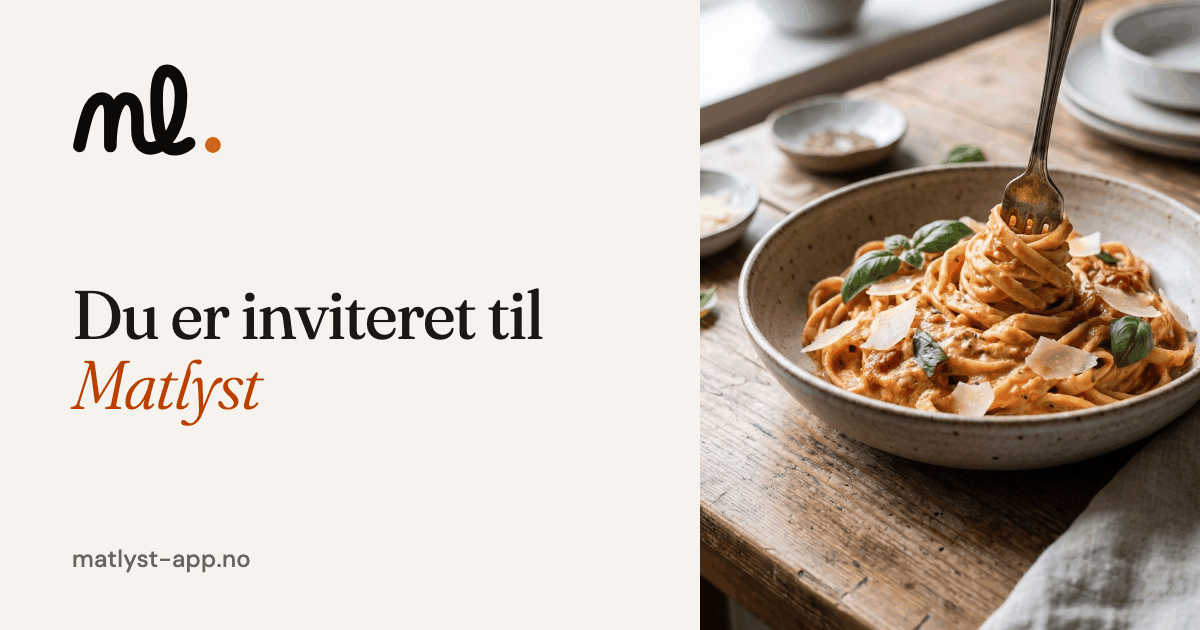
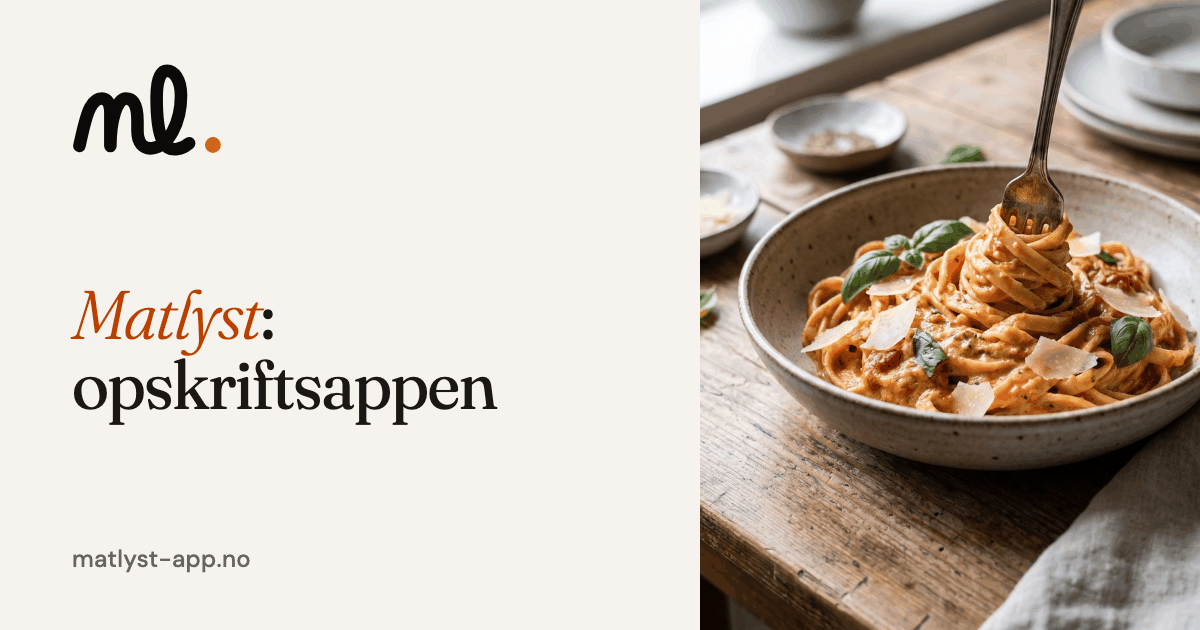
feat(vervekort): nøytral tittel i sv og da
CEO 2026-11-14: kortet i SE og DK skal beskrive appen, ikke invitere.
sv «Matlyst: receptappen», da «Matlyst: opskriftsappen» (appens egne ord,
tekstMerkelinje i lib/sprak/{sv,da}/epost.ts). Beskrivelsen har Matlyst som
subjekt så den ikke gjentar tittelen, og alt-teksten følger tittelen. Gjelder
til Henriette har lest. nb og en beholder «Du er invitert …». Bonusteksten er
ikke rørt.

Testene låser tittelen per språk i OG, <title> og h1, og at sv/da ikke har
invitasjonsord i kortfeltene. OG-bildene for sv og da er rendret på nytt.

Claude-Session: https://claude.ai/code/session_013cPYx7XmWYVxoPmWcSpR5M

Changed region(s): [[0.0617, 0.4524, 0.4625, 0.6937]]

diff --git a/da/v/index.html b/da/v/index.html
@@ -4,8 +4,8 @@
   <meta charset="UTF-8">
   <meta name="viewport" content="width=device-width, initial-scale=1.0">
   <meta http-equiv="Content-Security-Policy" content="default-src 'none'; script-src 'self'; style-src 'self'; img-src 'self'; font-src 'self'; base-uri 'none'; form-action 'none'">
-  <title>Du er inviteret til Matlyst</title>
-  <meta name="description" content="Opskriftsappen, der gemmer opskrifter fra nettet, Instagram og TikTok. Linket åbner App Store eller Google Play.">
+  <title>Matlyst: opskriftsappen</title>
+  <meta name="description" content="Matlyst gemmer opskrifter fra nettet, Instagram og TikTok. Linket åbner App Store eller Google Play.">
   <!-- Vervekortet skal aldri indekseres. Ikke Disallow i robots.txt: da henter
        ikke forhåndsviserne (Twitterbot, facebookexternalhit) kortet. -->
   <meta name="robots" content="noindex">
@@ -15,18 +15,18 @@
   <meta property="og:site_name" content="Matlyst">
   <meta property="og:locale" content="da_DK">
   <meta property="og:url" content="https://matlyst-app.no/da/v/">
-  <meta property="og:title" content="Du er inviteret til Matlyst">
-  <meta property="og:description" content="Opskriftsappen, der gemmer opskrifter fra nettet, Instagram og TikTok. Linket åbner App Store eller Google Play.">
+  <meta property="og:title" content="Matlyst: opskriftsappen">
+  <meta property="og:description" content="Matlyst gemmer opskrifter fra nettet, Instagram og TikTok. Linket åbner App Store eller Google Play.">
   <meta property="og:image" content="https://matlyst-app.no/images/v/vervekort-da.png">
   <meta property="og:image:type" content="image/png">
   <meta property="og:image:width" content="1200">
   <meta property="og:image:height" content="630">
-  <meta property="og:image:alt" content="Matlysts logo og teksten »Du er inviteret til Matlyst« ved siden af en tallerken pasta i tomatsauce med basilikum.">
+  <meta property="og:image:alt" content="Matlysts logo og teksten »Matlyst: opskriftsappen« ved siden af en tallerken pasta i tomatsauce med basilikum.">
   <meta name="twitter:card" content="summary_large_image">
-  <meta name="twitter:title" content="Du er inviteret til Matlyst">
-  <meta name="twitter:description" content="Opskriftsappen, der gemmer opskrifter fra nettet, Instagram og TikTok. Linket åbner App Store eller Google Play.">
+  <meta name="twitter:title" content="Matlyst: opskriftsappen">
+  <meta name="twitter:description" content="Matlyst gemmer opskrifter fra nettet, Instagram og TikTok. Linket åbner App Store eller Google Play.">
   <meta name="twitter:image" content="https://matlyst-app.no/images/v/vervekort-da.png">
-  <meta name="twitter:image:alt" content="Matlysts logo og teksten »Du er inviteret til Matlyst« ved siden af en tallerken pasta i tomatsauce med basilikum.">
+  <meta name="twitter:image:alt" content="Matlysts logo og teksten »Matlyst: opskriftsappen« ved siden af en tallerken pasta i tomatsauce med basilikum.">
   <link rel="icon" type="image/png" href="/images/icon.png">
   <link rel="stylesheet" href="/avmeld.css">
   <link rel="stylesheet" href="/v/vervekort.css">
@@ -45,7 +45,7 @@
   </nav>
 
   <main class="avmeld-doc vervekort">
-    <h1 class="avmeld-title">Du er inviteret til Matlyst</h1>
+    <h1 class="avmeld-title">Matlyst: opskriftsappen</h1>
     <p class="avmeld-intro">Med Matlyst gemmer du opskrifter fra nettet, Instagram og TikTok og bruger dem til madplanen og indkøbslisten.</p>
 
     <section class="avmeld-kort vk-kodekort" id="medKode" hidden>

diff --git a/sv/v/index.html b/sv/v/index.html
@@ -4,8 +4,8 @@
   <meta charset="UTF-8">
   <meta name="viewport" content="width=device-width, initial-scale=1.0">
   <meta http-equiv="Content-Security-Policy" content="default-src 'none'; script-src 'self'; style-src 'self'; img-src 'self'; font-src 'self'; base-uri 'none'; form-action 'none'">
-  <title>Du är inbjuden till Matlyst</title>
-  <meta name="description" content="Receptappen som sparar recept från webben, Instagram och TikTok. Länken öppnar App Store eller Google Play.">
+  <title>Matlyst: receptappen</title>
+  <meta name="description" content="Matlyst sparar recept från webben, Instagram och TikTok. Länken öppnar App Store eller Google Play.">
   <!-- Vervekortet skal aldri indekseres. Ikke Disallow i robots.txt: da henter
        ikke forhåndsviserne (Twitterbot, facebookexternalhit) kortet. -->
   <meta name="robots" content="noindex">
@@ -15,18 +15,18 @@
   <meta property="og:site_name" content="Matlyst">
   <meta property="og:locale" content="sv_SE">
   <meta property="og:url" content="https://matlyst-app.no/sv/v/">
-  <meta property="og:title" content="Du är inbjuden till Matlyst">
-  <meta property="og:description" content="Receptappen som sparar recept från webben, Instagram och TikTok. Länken öppnar App Store eller Google Play.">
+  <meta property="og:title" content="Matlyst: receptappen">
+  <meta property="og:description" content="Matlyst sparar recept från webben, Instagram och TikTok. Länken öppnar App Store eller Google Play.">
   <meta property="og:image" content="https://matlyst-app.no/images/v/vervekort-sv.png">
   <meta property="og:image:type" content="image/png">
   <meta property="og:image:width" content="1200">
   <meta property="og:image:height" content="630">
-  <meta property="og:image:alt" content="Matlysts logotyp och texten ”Du är inbjuden till Matlyst” bredvid en tallrik pasta i tomatsås med basilika.">
+  <meta property="og:image:alt" content="Matlysts logotyp och texten ”Matlyst: receptappen” bredvid en tallrik pasta i tomatsås med basilika.">
   <meta name="twitter:card" content="summary_large_image">
-  <meta name="twitter:title" content="Du är inbjuden till Matlyst">
-  <meta name="twitter:description" content="Receptappen som sparar recept från webben, Instagram och TikTok. Länken öppnar App Store eller Google Play.">
+  <meta name="twitter:title" content="Matlyst: receptappen">
+  <meta name="twitter:description" content="Matlyst sparar recept från webben, Instagram och TikTok. Länken öppnar App Store eller Google Play.">
   <meta name="twitter:image" content="https://matlyst-app.no/images/v/vervekort-sv.png">
-  <meta name="twitter:image:alt" content="Matlysts logotyp och texten ”Du är inbjuden till Matlyst” bredvid en tallrik pasta i tomatsås med basilika.">
+  <meta name="twitter:image:alt" content="Matlysts logotyp och texten ”Matlyst: receptappen” bredvid en tallrik pasta i tomatsås med basilika.">
   <link rel="icon" type="image/png" href="/images/icon.png">
   <link rel="stylesheet" href="/avmeld.css">
   <link rel="stylesheet" href="/v/vervekort.css">
@@ -45,7 +45,7 @@
   </nav>
 
   <main class="avmeld-doc vervekort">
-    <h1 class="avmeld-title">Du är inbjuden till Matlyst</h1>
+    <h1 class="avmeld-title">Matlyst: receptappen</h1>
     <p class="avmeld-intro">Med Matlyst sparar du recept från webben, Instagram och TikTok och använder dem i veckomenyn och inköpslistan.</p>
 
     <section class="avmeld-kort vk-kodekort" id="medKode" hidden>

diff --git a/docs/sprak/2026-11-14-vervekort.md b/docs/sprak/2026-11-14-vervekort.md
@@ -17,9 +17,9 @@ Mottakeren har fått en melding fra en venn med lenke og kode. Meldingsappen vis
 
 | nøkkel | nb | sv | da | en |
 |---|---|---|---|---|
-| tittel (kort og side) | Du er invitert til Matlyst | Du är inbjuden till Matlyst | Du er inviteret til Matlyst | You’re invited to try Matlyst |
-| beskrivelse (kort) | Oppskriftsappen som lagrer oppskrifter fra nettet, Instagram og TikTok. Lenken åpner App Store eller Google Play. | Receptappen som sparar recept från webben, Instagram och TikTok. Länken öppnar App Store eller Google Play. | Opskriftsappen, der gemmer opskrifter fra nettet, Instagram og TikTok. Linket åbner App Store eller Google Play. | The recipe app that saves recipes from websites, Instagram, and TikTok. This link opens the App Store or Google Play. |
-| bildeAlt | Matlyst-logoen og teksten «Du er invitert til Matlyst» ved siden av en tallerken pasta i tomatsaus med basilikum. | Matlysts logotyp och texten ”Du är inbjuden till Matlyst” bredvid en tallrik pasta i tomatsås med basilika. | Matlysts logo og teksten »Du er inviteret til Matlyst« ved siden af en tallerken pasta i tomatsauce med basilikum. | The Matlyst logo and the words “You’re invited to try Matlyst” next to a bowl of pasta in tomato sauce with basil. |
+| tittel (kort og side) | Du er invitert til Matlyst | Matlyst: receptappen | Matlyst: opskriftsappen | You’re invited to try Matlyst |
+| beskrivelse (kort) | Oppskriftsappen som lagrer oppskrifter fra nettet, Instagram og TikTok. Lenken åpner App Store eller Google Play. | Matlyst sparar recept från webben, Instagram och TikTok. Länken öppnar App Store eller Google Play. | Matlyst gemmer opskrifter fra nettet, Instagram og TikTok. Linket åbner App Store eller Google Play. | The recipe app that saves recipes from websites, Instagram, and TikTok. This link opens the App Store or Google Play. |
+| bildeAlt | Matlyst-logoen og teksten «Du er invitert til Matlyst» ved siden av en tallerken pasta i tomatsaus med basilikum. | Matlysts logotyp och texten ”Matlyst: receptappen” bredvid en tallrik pasta i tomatsås med basilika. | Matlysts logo og teksten »Matlyst: opskriftsappen« ved siden af en tallerken pasta i tomatsauce med basilikum. | The Matlyst logo and the words “You’re invited to try Matlyst” next to a bowl of pasta in tomato sauce with basil. |
 | intro | Med Matlyst lagrer du oppskrifter fra nettet, Instagram og TikTok, og bruker dem til ukemeny og handleliste. | Med Matlyst sparar du recept från webben, Instagram och TikTok och använder dem i veckomenyn och inköpslistan. | Med Matlyst gemmer du opskrifter fra nettet, Instagram og TikTok og bruger dem til madplanen og indkøbslisten. | Matlyst saves recipes from websites, Instagram, and TikTok so you can plan your meals and build your grocery list. |
 | stegTittel | Slik kommer du i gang | Så kommer du igång | Sådan kommer du i gang | How to get started |
 | steg1 | Last ned Matlyst fra App Store eller Google Play. | Hämta Matlyst i App Store eller Google Play. | Hent Matlyst i App Store eller Google Play. | Get Matlyst from the App Store or Google Play. |
@@ -30,6 +30,12 @@ Mottakeren har fått en melding fra en venn med lenke og kode. Meldingsappen vis
 | utenKode | Fikk du en vervekode i meldingen? Skriv den inn når du lager en konto med e-post. | Fick du en värvningskod i meddelandet? Skriv in den när du skapar ett konto med e-post. | Fik du en henvisningskode i beskeden? Skriv den, når du opretter en konto med e-mail. | Got a referral code in the message? Enter it when you sign up with email. |
 | butikker (aria) | Last ned Matlyst | Hämta Matlyst | Hent Matlyst | Get Matlyst |
 | lesMer | Les mer om Matlyst | Läs mer om Matlyst | Læs mere om Matlyst | Learn more about Matlyst |
+
+## Endring 2026-11-14 (CEO): nøytral tittel i sv og da
+
+Meningen er «Matlyst: oppskriftsappen»: kortet sier hva lenka er, ikke at noen inviterer. sv «Matlyst: receptappen» og da «Matlyst: opskriftsappen» bruker appens egne ord (`tekstMerkelinje` i `lib/sprak/sv/epost.ts` «Receptapp», `lib/sprak/da/epost.ts` «Opskriftsapp», og nettstedets egen sv-forside «Receptappen som …»). Bestemt form fordi tittelen navngir appen, liten forbokstav etter kolon som i svensk og dansk løpende tekst. Beskrivelsen begynte før med «Receptappen/Opskriftsappen som …»; for ikke å gjenta tittelen har den nå Matlyst som subjekt. Alt-teksten følger tittelen. Ingressen («Med Matlyst sparar du …») taler til leseren, ikke på vegne av avsenderen, og er uendret. nb og en beholder «Du er invitert …» / «You’re invited to try …». Bonusteksten i steg 2 er ikke rørt (avklares med CEO).
+
+Før: sv «Du är inbjuden till Matlyst», da «Du er inviteret til Matlyst».
 
 ## Ordvalg som kan diskuteres
 

diff --git a/docs/vervekort-jus.md b/docs/vervekort-jus.md
@@ -44,6 +44,8 @@ Konklusjon: Kortet bryter ikke ordlyden i vedtaket («OS-delearket uten forhånd
 
 ## Slik er kortet holdt nøytralt nå
 
+- 2026-11-14 (CEO): nøytral tittel i DK og SE («Matlyst: receptappen» / «Matlyst: opskriftsappen») til Henriette har lest; nb og en beholder «Du er invitert …».
+
 - Beskrivelsen beskriver lenkens mål, ikke avsenderen: «Oppskriftsappen som lagrer oppskrifter fra nettet, Instagram og TikTok. Lenken åpner App Store eller Google Play.» Ingen superlativer, ingen pris, ingen bonus.
 - Kortet nevner verken bonusen eller koden. Bonusen (5 gratisimporter til vennen) står bare på sida, som Matlysts egen opplysning til den som åpner lenka.
 - Ingen persondata: ingen navn, ingen kode i taggene. Kortet er likt for alle koder og alle avsendere.
